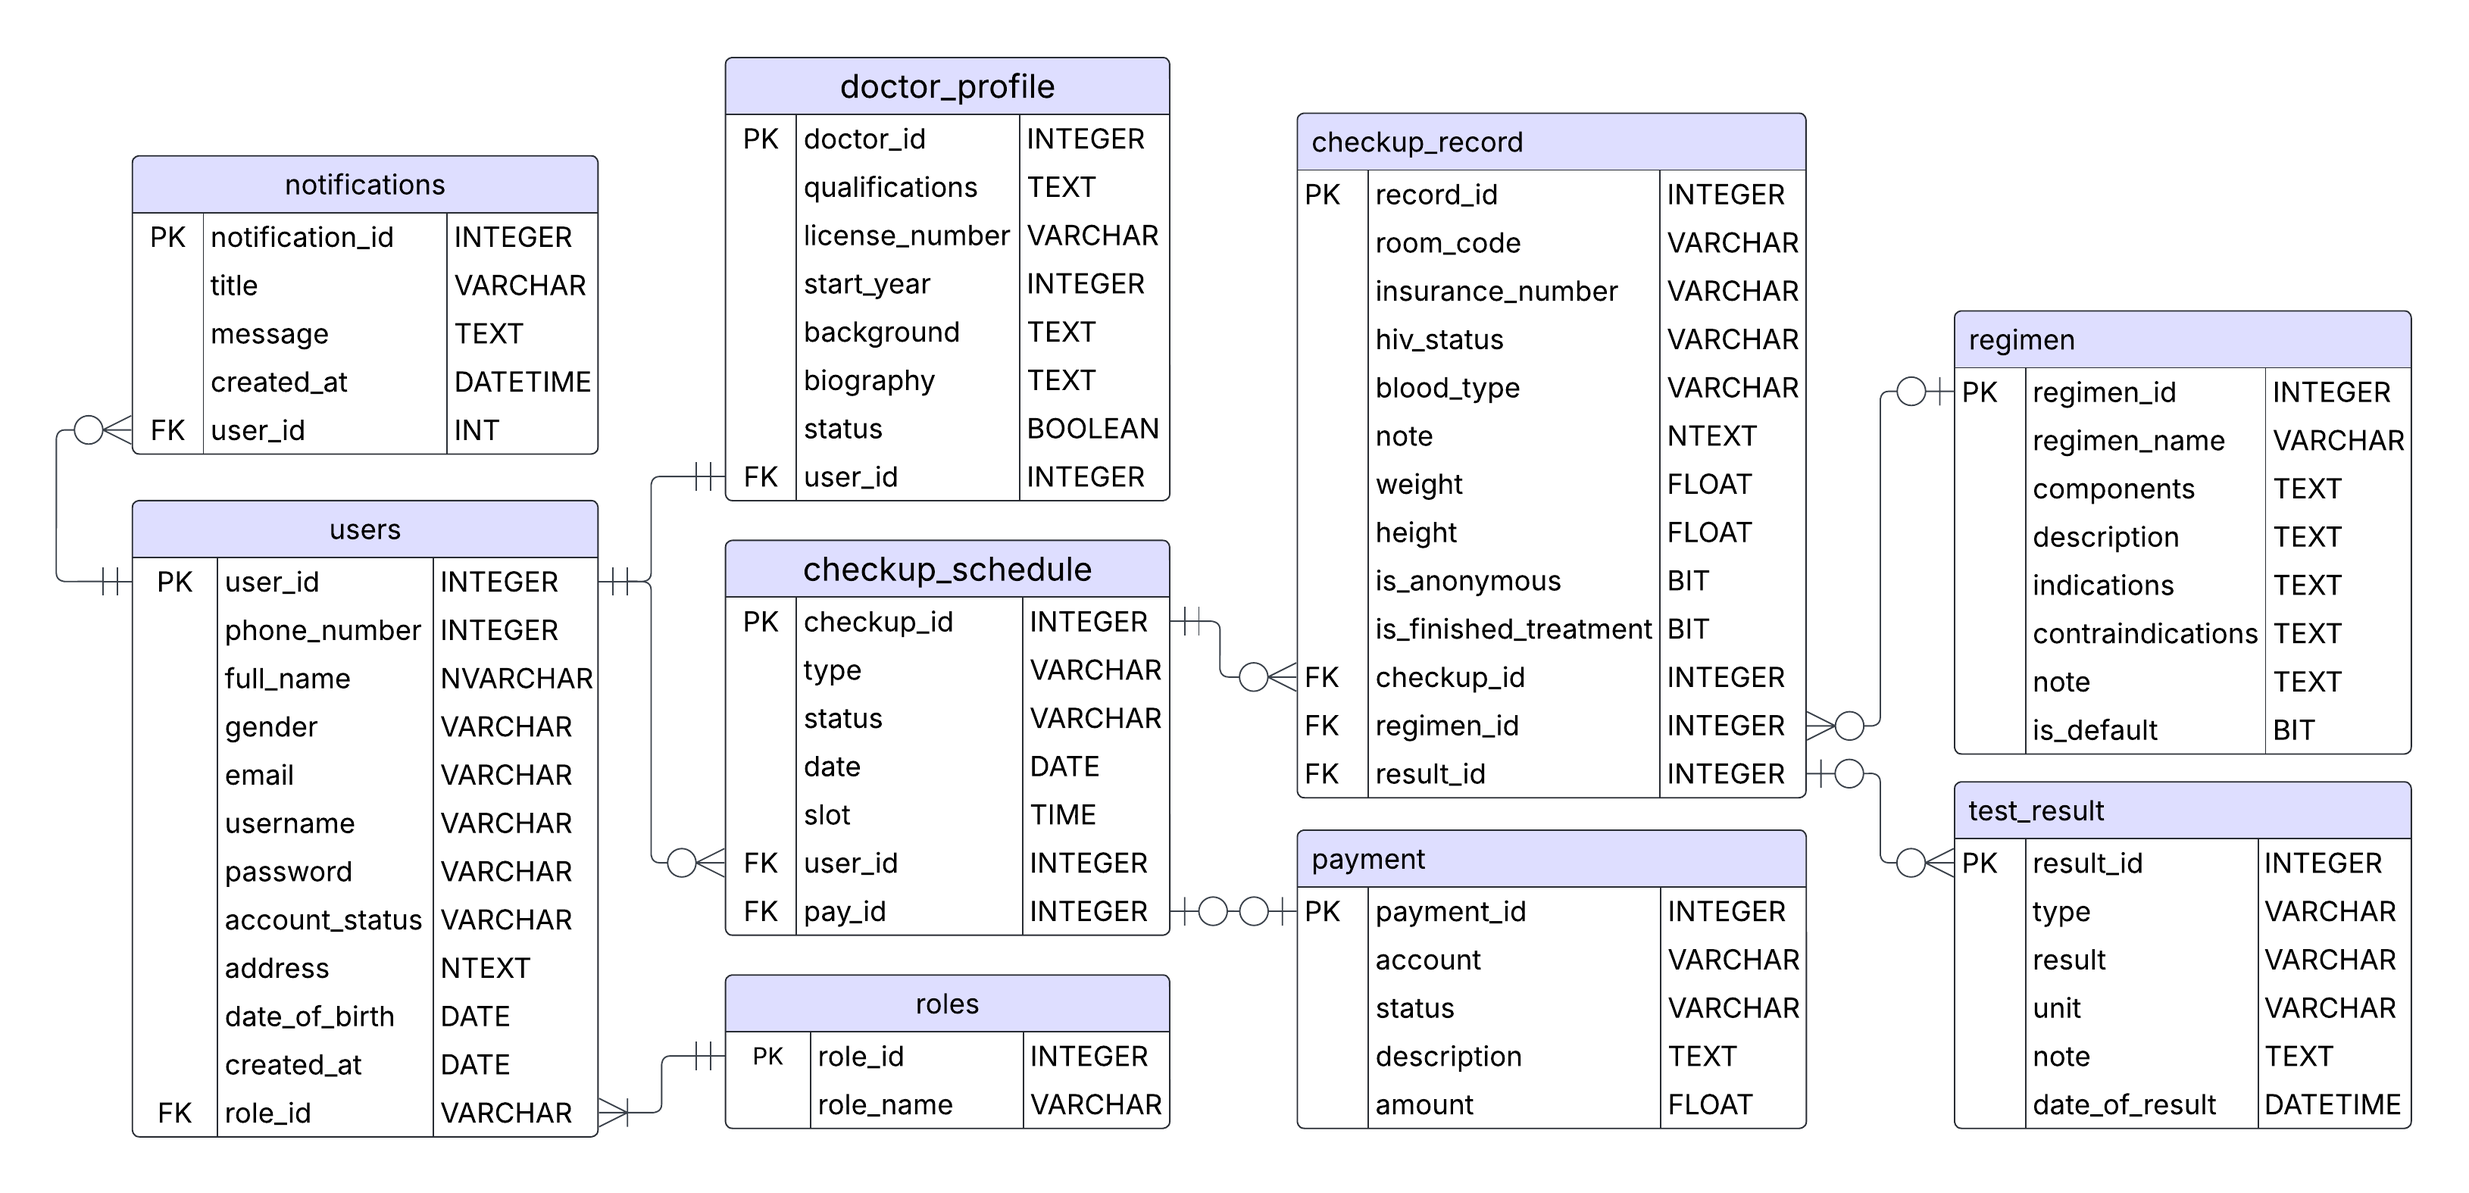
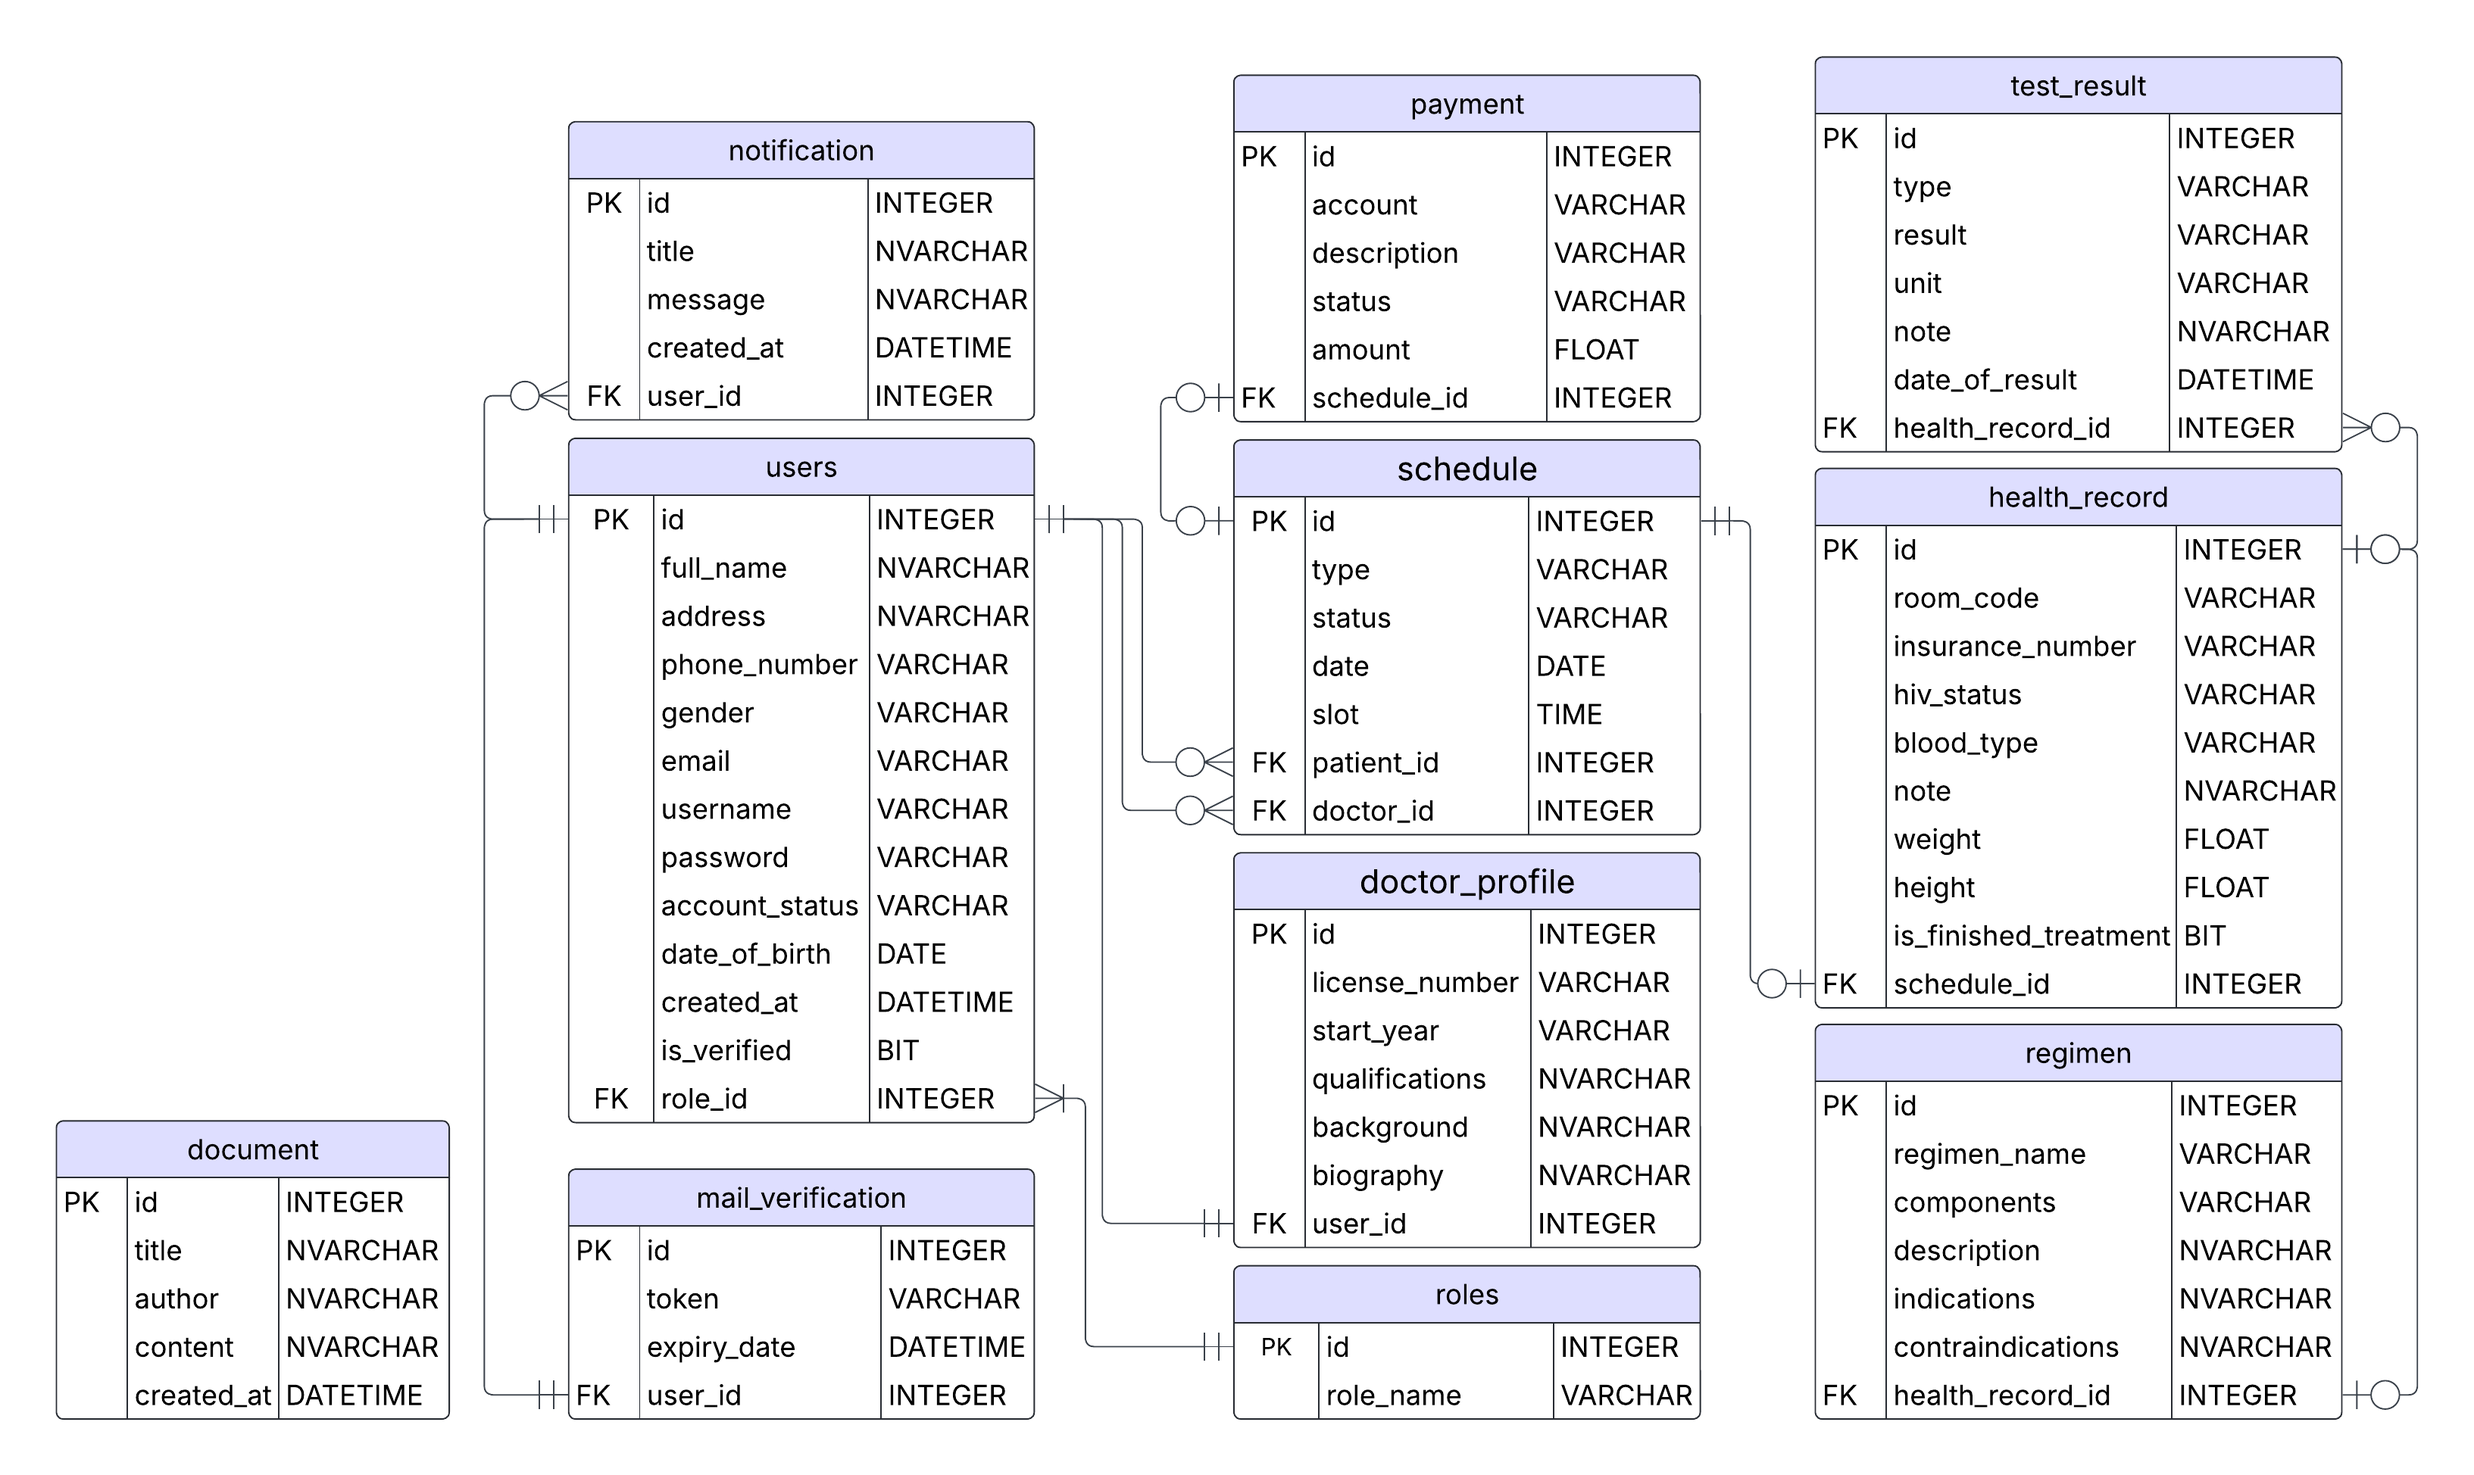
optimize folder contruction, update on entity

diff --git a/hiv-treatment-support-system/backend/src/main/java/backend/authentication/controller/AuthenticationController.java b/hiv-treatment-support-system/backend/src/main/java/backend/authentication/controller/AuthenticationController.java
@@ -1,4 +1,4 @@
-package backend.user.controller;
+package backend.authentication.controller;
 
 import org.springframework.http.ResponseEntity;
 import org.springframework.web.bind.annotation.GetMapping;
@@ -8,11 +8,11 @@ import org.springframework.web.bind.annotation.RequestMapping;
 import org.springframework.web.bind.annotation.RequestParam;
 import org.springframework.web.bind.annotation.RestController;
 
-import backend.user.dto.AuthenticationResponse;
+import backend.authentication.dto.AuthenticationResponse;
+import backend.authentication.dto.LoginRequest;
+import backend.authentication.dto.RegisterRequest;
+import backend.authentication.service.AuthenticationService;
 import backend.user.dto.CreateUserRequest;
-import backend.user.dto.LoginRequest;
-import backend.user.dto.RegisterRequest;
-import backend.user.service.AuthenticationService;
 import lombok.RequiredArgsConstructor;
 
 @RestController
@@ -27,15 +27,16 @@ public class AuthenticationController {
         return ResponseEntity.ok(response);
     }
 
-    @PostMapping("/login")
-    public ResponseEntity<AuthenticationResponse> login(@RequestBody LoginRequest request) {
-        AuthenticationResponse response = authenticationService.login(request);
-        return ResponseEntity.ok(response);
-    }
-
     @PostMapping("/create")
     public ResponseEntity<AuthenticationResponse> create(@RequestBody CreateUserRequest request) {
         AuthenticationResponse response = authenticationService.create(request);
+        return ResponseEntity.ok(response);
+    }
+
+    
+    @PostMapping("/login")
+    public ResponseEntity<AuthenticationResponse> login(@RequestBody LoginRequest request) {
+        AuthenticationResponse response = authenticationService.login(request);
         return ResponseEntity.ok(response);
     }
 

diff --git a/hiv-treatment-support-system/backend/src/main/java/backend/authentication/service/AuthenticationService.java b/hiv-treatment-support-system/backend/src/main/java/backend/authentication/service/AuthenticationService.java
@@ -1,4 +1,4 @@
-package backend.user.service;
+package backend.authentication.service;
 
 import java.time.LocalDateTime;
 import java.util.Optional;
@@ -12,15 +12,16 @@ import org.springframework.security.core.userdetails.UserDetails;
 import org.springframework.security.crypto.password.PasswordEncoder;
 import org.springframework.stereotype.Service;
 
-import backend.config.CustomUserDetails;
-import backend.user.dto.AuthenticationResponse;
+import backend.authentication.dto.AuthenticationResponse;
+import backend.authentication.dto.LoginRequest;
+import backend.authentication.dto.RegisterRequest;
+import backend.authentication.model.MailVerification;
+import backend.authentication.reposiotry.MailVerificationRepository;
+import backend.security.CustomUserDetails;
+import backend.security.JwtService;
 import backend.user.dto.CreateUserRequest;
-import backend.user.dto.LoginRequest;
-import backend.user.dto.RegisterRequest;
-import backend.user.model.MailVerification;
 import backend.user.model.Role;
 import backend.user.model.User;
-import backend.user.repository.MailVerificationRepository;
 import backend.user.repository.UserRepository;
 import lombok.RequiredArgsConstructor;
 
@@ -88,7 +89,7 @@ public class AuthenticationService {
                 .build();
         userRepository.save(user);
 
-         String token = UUID.randomUUID().toString();
+        String token = UUID.randomUUID().toString();
         MailVerification verificationToken = MailVerification.builder()
                 .token(token)
                 .expiryDate(LocalDateTime.now().plusHours(24))

diff --git a/hiv-treatment-support-system/backend/src/main/java/backend/user/model/User.java b/hiv-treatment-support-system/backend/src/main/java/backend/user/model/User.java
@@ -6,6 +6,8 @@ import java.time.LocalDateTime;
 import org.hibernate.annotations.OnDelete;
 import org.hibernate.annotations.OnDeleteAction;
 
+import backend.authentication.model.MailVerification;
+import jakarta.persistence.Column;
 import jakarta.persistence.Entity;
 import jakarta.persistence.GeneratedValue;
 import jakarta.persistence.GenerationType;
@@ -27,14 +29,19 @@ public class User {
     @Id
     @GeneratedValue(strategy = GenerationType.IDENTITY)
     private int id;
-    private String phoneNumber;
+
+    @Column(columnDefinition = "NVARCHAR")
     private String fullName;
+
+    @Column(columnDefinition = "NVARCHAR")
+    private String address;
+
+    private String phoneNumber;
     private String gender;
     private String email;
     private String username;
     private String password;
     private String accountStatus;
-    private String address;
     private LocalDate dateOfBirth;
     private LocalDateTime createdAt;
     private boolean isVerified;

diff --git a/hiv-treatment-support-system/backend/src/main/java/backend/doctorprofile/model/DoctorProfile.java b/hiv-treatment-support-system/backend/src/main/java/backend/doctorprofile/model/DoctorProfile.java
@@ -1,8 +1,7 @@
 package backend.doctorprofile.model;
 
-import java.time.LocalDate;
-
 import backend.user.model.User;
+import jakarta.persistence.Column;
 import jakarta.persistence.Entity;
 import jakarta.persistence.GeneratedValue;
 import jakarta.persistence.GenerationType;
@@ -25,11 +24,17 @@ public class DoctorProfile {
     @Id
     @GeneratedValue(strategy = GenerationType.IDENTITY)
     private int id;
-    private String qualifications;
     private String licenseNumber;
-    private String background;
+    private String startYear;
+
+    @Column(columnDefinition = "NVARCHAR")
+    private String qualifications;
+
+    @Column(columnDefinition = "NVARCHAR")
     private String biography;
-    private LocalDate startYear;
+
+    @Column(columnDefinition = "NVARCHAR")
+    private String background;
 
     @ManyToOne
     @JoinColumn(name = "userId", referencedColumnName = "id")

diff --git a/hiv-treatment-support-system/backend/src/main/java/backend/regimen/model/Regimen.java b/hiv-treatment-support-system/backend/src/main/java/backend/regimen/model/Regimen.java
@@ -1,6 +1,7 @@
 package backend.regimen.model;
 
 import backend.healthrecord.model.HealthRecord;
+import jakarta.persistence.Column;
 import jakarta.persistence.Entity;
 import jakarta.persistence.GeneratedValue;
 import jakarta.persistence.GenerationType;
@@ -25,9 +26,17 @@ public class Regimen {
     private int id;
     private String regimenName;
     private String components;
+
+    @Column(columnDefinition = "NVARCHAR")
     private String description;
+
+    @Column(columnDefinition = "NVARCHAR")
     private String indications;
+
+    @Column(columnDefinition = "NVARCHAR")
     private String contradications;
+
+    @Column(columnDefinition = "NVARCHAR")
     private String note;
 
     @OneToOne

diff --git a/hiv-treatment-support-system/backend/src/main/java/backend/document/model/Document.java b/hiv-treatment-support-system/backend/src/main/java/backend/document/model/Document.java
@@ -2,6 +2,7 @@ package backend.document.model;
 
 import java.time.LocalDateTime;
 
+import jakarta.persistence.Column;
 import jakarta.persistence.Entity;
 import jakarta.persistence.GeneratedValue;
 import jakarta.persistence.GenerationType;
@@ -13,7 +14,7 @@ import lombok.Data;
 import lombok.NoArgsConstructor;
 
 @Entity
-@Table(name = "documnet")
+@Table(name = "document")
 @Data
 @Builder
 @NoArgsConstructor
@@ -24,6 +25,7 @@ public class Document {
     private int id;
     private String title;
     private String author;
+    @Column(columnDefinition = "NTEXT")
     private String content;
     private LocalDateTime createdAt;
 }

diff --git a/hiv-treatment-support-system/backend/src/main/java/backend/notification/model/Notification.java b/hiv-treatment-support-system/backend/src/main/java/backend/notification/model/Notification.java
@@ -3,6 +3,7 @@ package backend.notification.model;
 import java.time.LocalDateTime;
 
 import backend.user.model.User;
+import jakarta.persistence.Column;
 import jakarta.persistence.Entity;
 import jakarta.persistence.GeneratedValue;
 import jakarta.persistence.GenerationType;
@@ -25,8 +26,13 @@ public class Notification {
     @Id
     @GeneratedValue(strategy = GenerationType.IDENTITY)
     private int id;
+
+    @Column(columnDefinition = "NVARCHAR")
     private String title;
+
+    @Column(columnDefinition = "NVARCHAR")
     private String message;
+
     private LocalDateTime createdAt;
     
     @ManyToOne

diff --git a/hiv-treatment-support-system/backend/src/main/java/backend/testresult/model/TestResult.java b/hiv-treatment-support-system/backend/src/main/java/backend/testresult/model/TestResult.java
@@ -3,6 +3,7 @@ package backend.testresult.model;
 import java.time.LocalDateTime;
 
 import backend.healthrecord.model.HealthRecord;
+import jakarta.persistence.Column;
 import jakarta.persistence.Entity;
 import jakarta.persistence.GeneratedValue;
 import jakarta.persistence.GenerationType;
@@ -28,7 +29,10 @@ public class TestResult {
     private String type;
     private String result;
     private String unit;
+
+    @Column(columnDefinition = "NVARCHAR")
     private String note;
+    
     private LocalDateTime dateOfResult;
     
     @ManyToOne

diff --git a/hiv-treatment-support-system/backend/src/main/java/backend/security/JwtAuthenticationFilter.java b/hiv-treatment-support-system/backend/src/main/java/backend/security/JwtAuthenticationFilter.java
@@ -1,4 +1,4 @@
-package backend.user.model;
+package backend.security;
 
 
 import java.io.IOException;
@@ -12,7 +12,6 @@ import org.springframework.security.web.authentication.WebAuthenticationDetailsS
 import org.springframework.stereotype.Component;
 import org.springframework.web.filter.OncePerRequestFilter;
 
-import backend.user.service.JwtService;
 import jakarta.servlet.FilterChain;
 import jakarta.servlet.ServletException;
 import jakarta.servlet.http.HttpServletRequest;

diff --git a/hiv-treatment-support-system/backend/src/main/java/backend/authentication/reposiotry/MailVerificationRepository.java b/hiv-treatment-support-system/backend/src/main/java/backend/authentication/reposiotry/MailVerificationRepository.java
@@ -1,11 +1,11 @@
-package backend.user.repository;
+package backend.authentication.reposiotry;
 
 import java.time.LocalDateTime;
 import java.util.Optional;
 
 import org.springframework.data.jpa.repository.JpaRepository;
 
-import backend.user.model.MailVerification;
+import backend.authentication.model.MailVerification;
 
 public interface MailVerificationRepository extends JpaRepository<MailVerification, Long> {
     Optional<MailVerification> findByToken(String token);

diff --git a/hiv-treatment-support-system/backend/src/main/java/backend/security/SecurityConfiguration.java b/hiv-treatment-support-system/backend/src/main/java/backend/security/SecurityConfiguration.java
@@ -1,4 +1,4 @@
-package backend.config;
+package backend.security;
 
 import java.util.Arrays;
 
@@ -23,7 +23,6 @@ import org.springframework.web.cors.CorsConfiguration;
 import org.springframework.web.cors.CorsConfigurationSource;
 import org.springframework.web.cors.UrlBasedCorsConfigurationSource;
 
-import backend.user.model.JwtAuthenticationFilter;
 import backend.user.repository.UserRepository;
 import lombok.RequiredArgsConstructor;
 

diff --git a/hiv-treatment-support-system/backend/src/main/java/backend/doctorprofile/dto/UpdateDoctorProfileRequest.java b/hiv-treatment-support-system/backend/src/main/java/backend/doctorprofile/dto/UpdateDoctorProfileRequest.java
@@ -1,13 +1,11 @@
 package backend.doctorprofile.dto;
 
-import java.time.LocalDate;
-
 public record UpdateDoctorProfileRequest(
-        String qualifications,
         String licenseNumber,
+        String startYear,
+        String qualifications,
         String background,
         String biography,
-        LocalDate startYear,
         int userId
 ) {
 }
